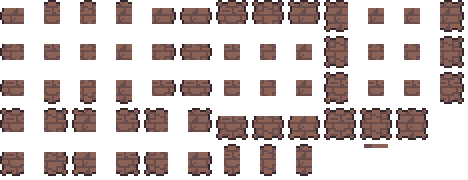
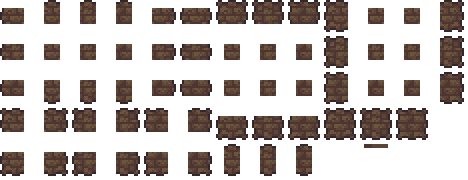
New wall sprite

diff --git a/Tiles/Vitric/Decoration/VitricFurniture.cs b/Tiles/Vitric/Decoration/VitricFurniture.cs
@@ -5,6 +5,6 @@ namespace StarlightRiver.Tiles.Vitric.Decoration
 {
     class VitricFurniture : AutoFurniture
     {
-        public VitricFurniture() : base("Vitric", "StarlightRiver/Tiles/Vitric/Decoration/", new Color(200, 150, 20), new Color(255, 220, 150), DustType<Dusts.Air>(), ItemType<Blocks.AncientSandstoneItem>()) { }
+        public VitricFurniture() : base("Vitric", "StarlightRiver/Tiles/Vitric/Decoration/", new Color(140, 97, 86), new Color(255, 220, 150), DustType<Dusts.Air>(), ItemType<Blocks.AncientSandstoneItem>()) { }
     }
 }
